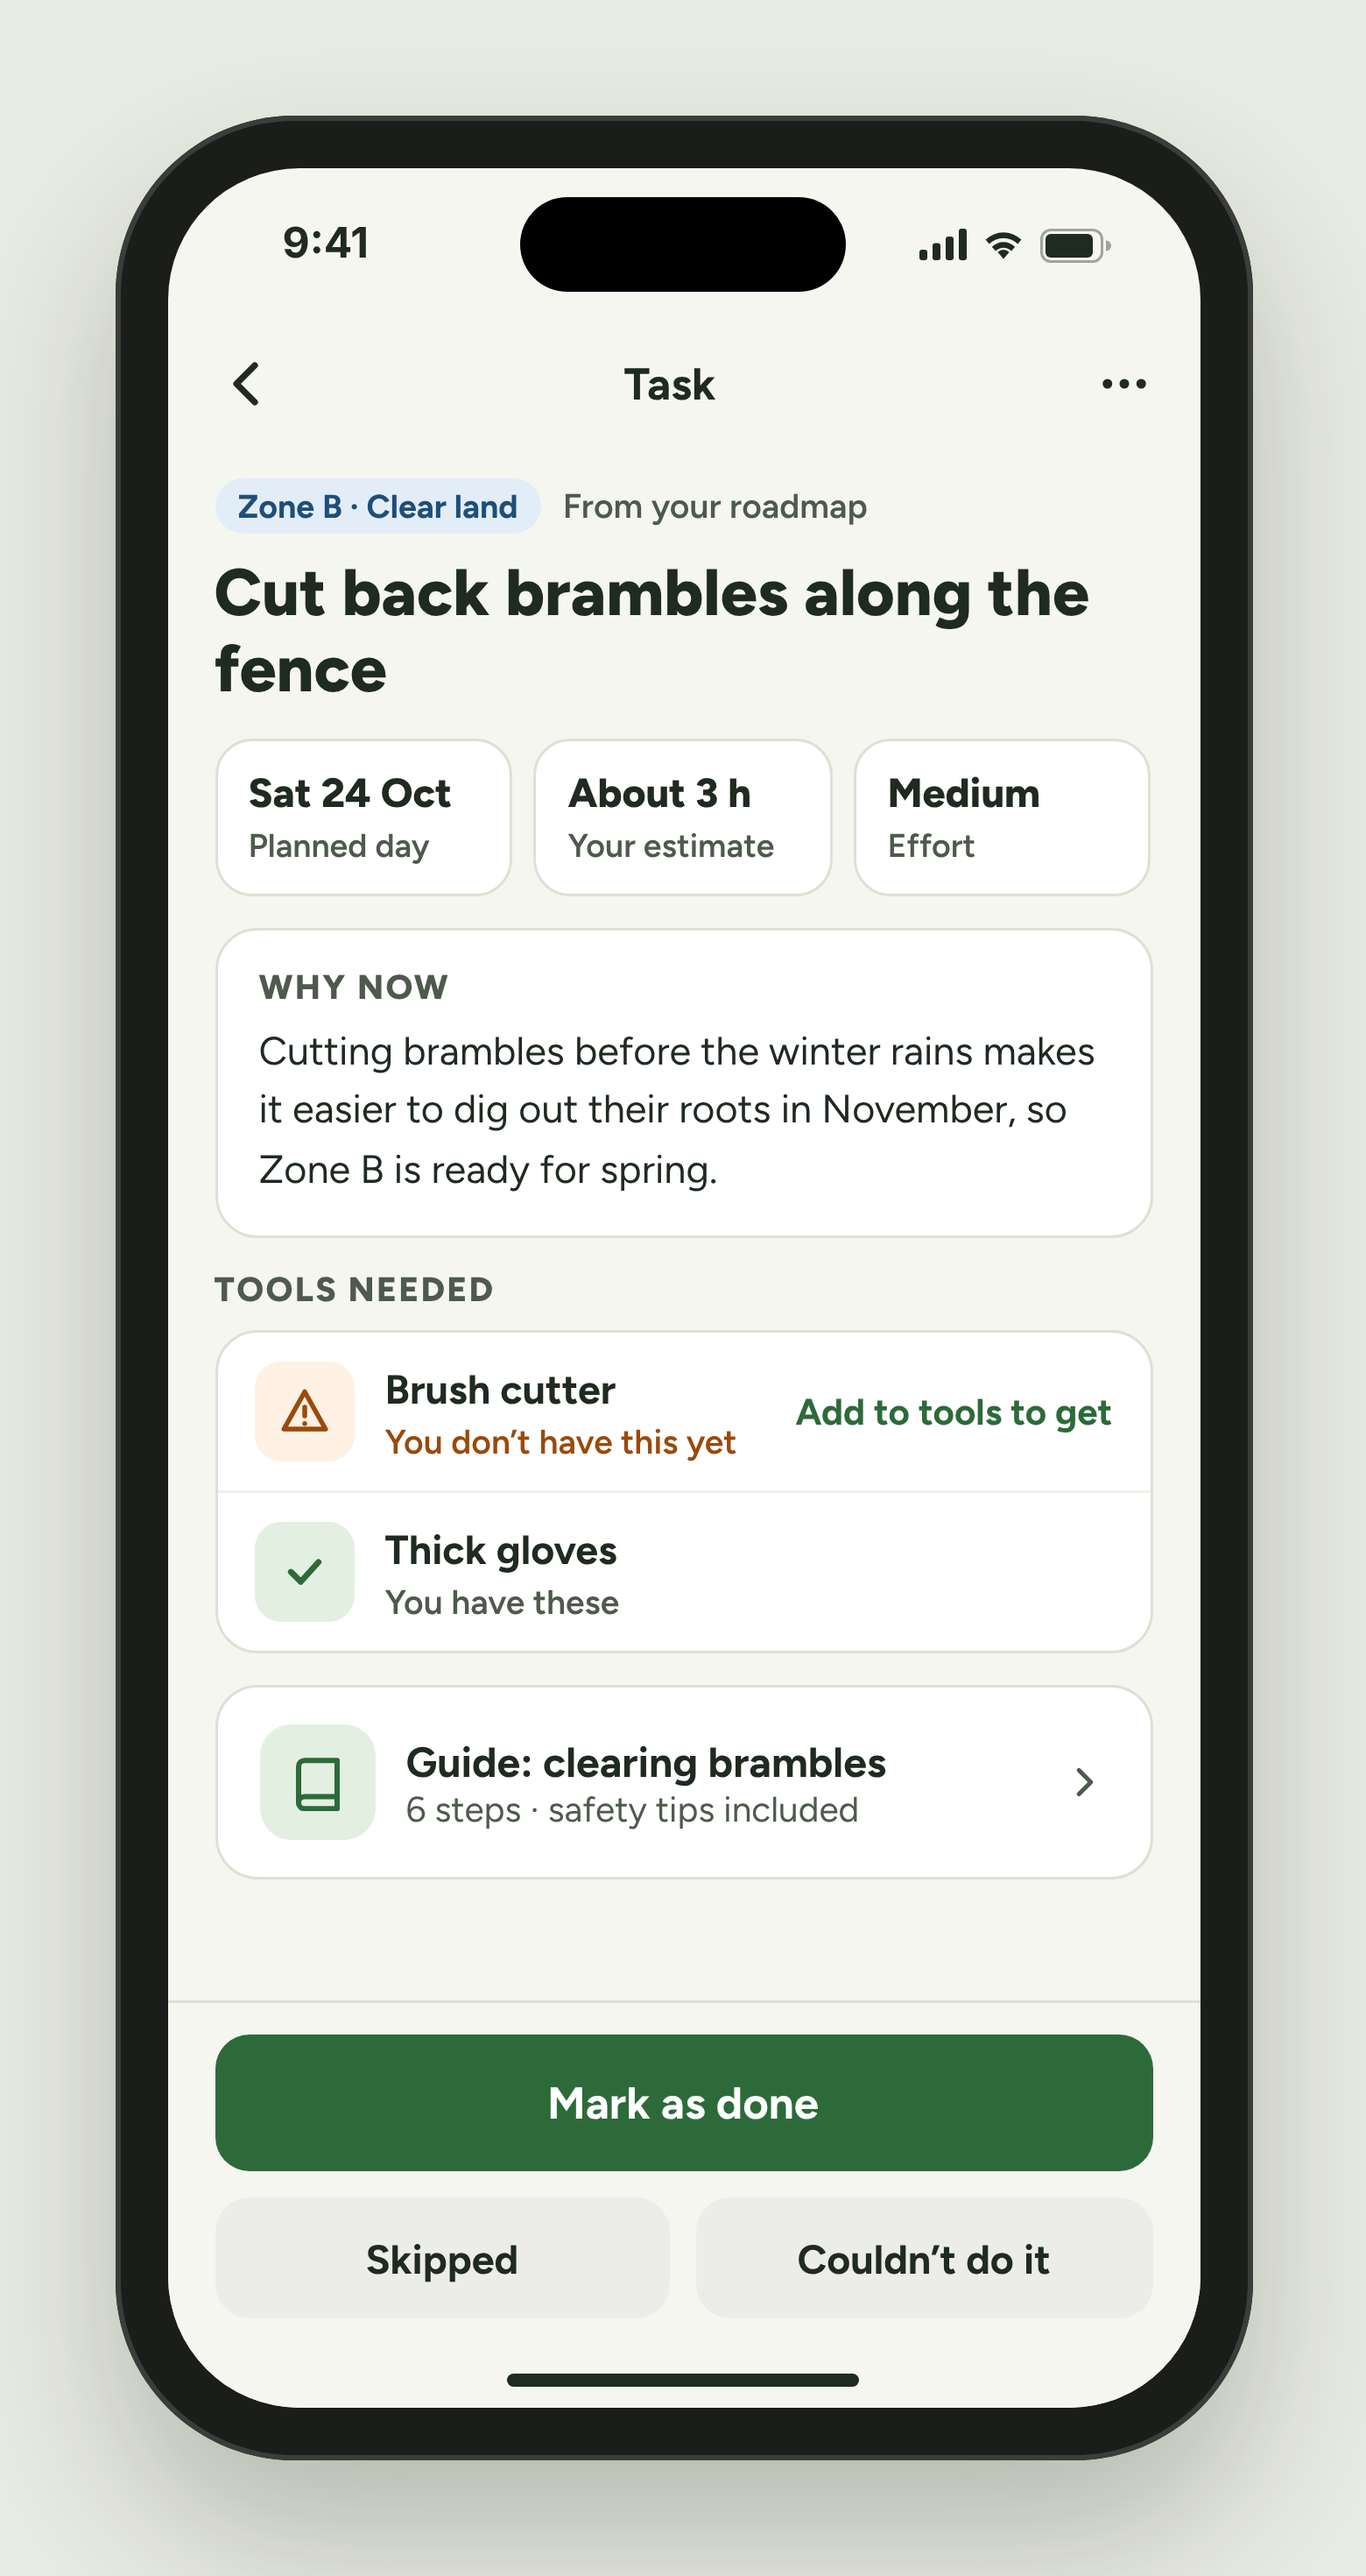
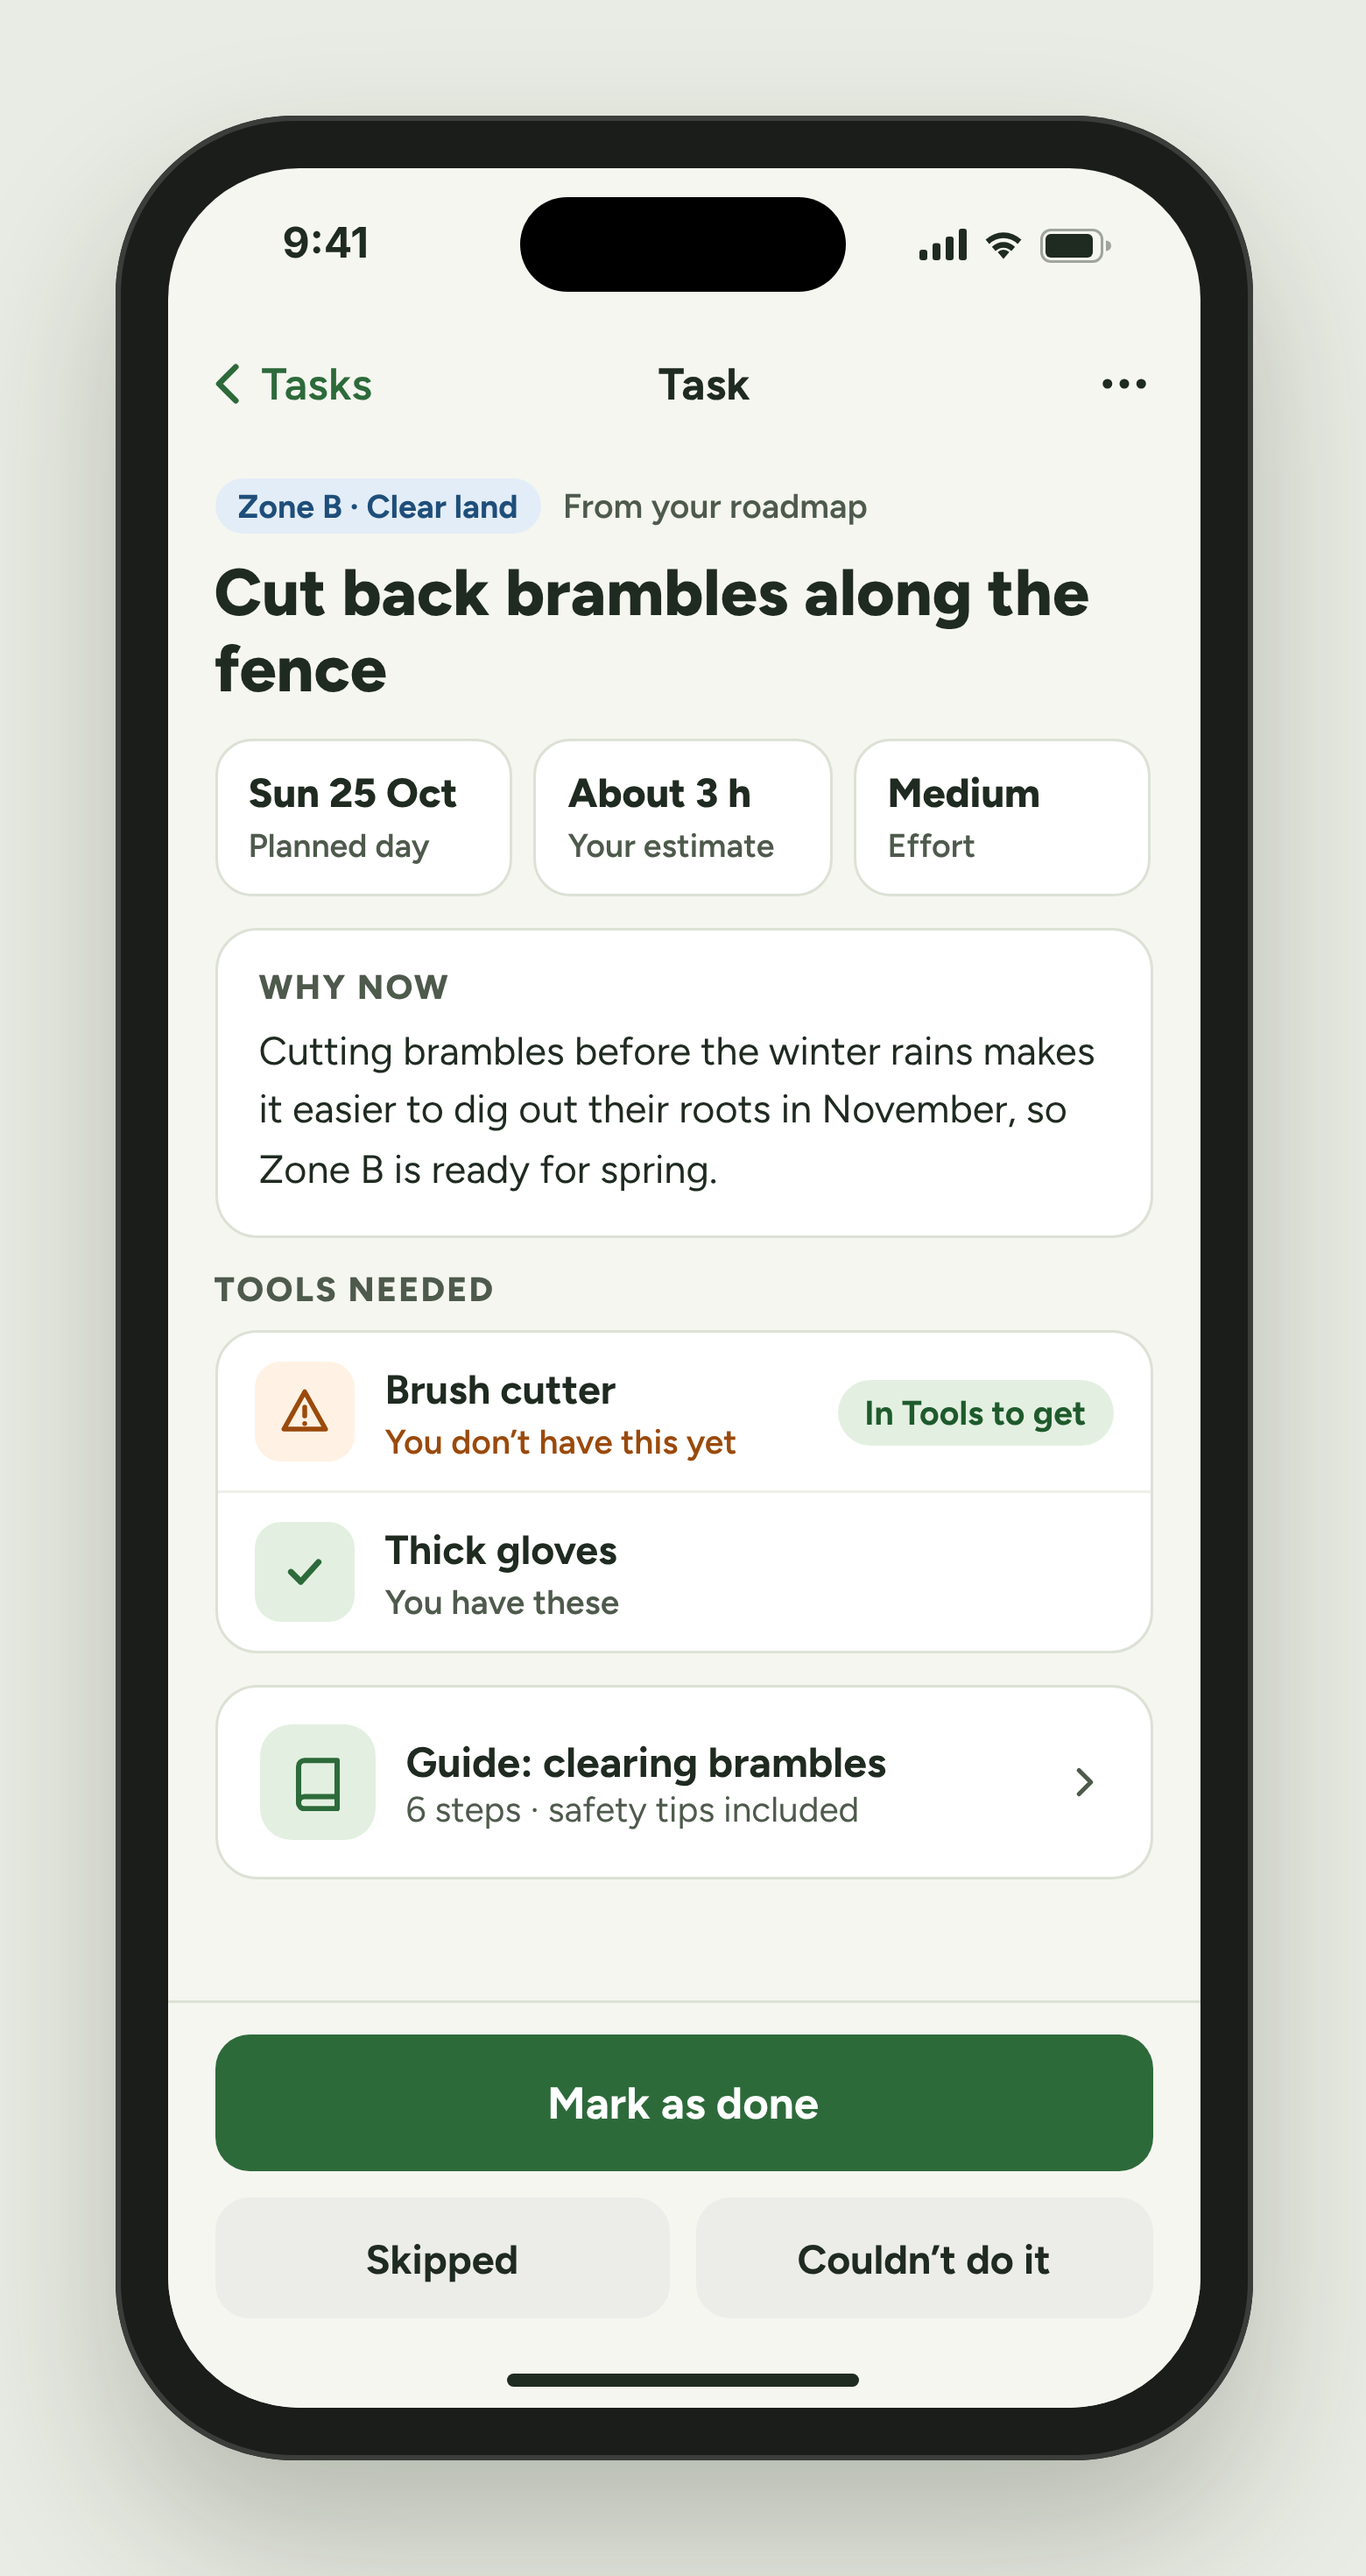
Design: B3 labelled back button, Sunday date, tool list status
Claude-Session: https://claude.ai/code/session_015NynAjU4naPZwzmeuGazot

diff --git a/design/source/B3-task-detail.html b/design/source/B3-task-detail.html
@@ -75,13 +75,13 @@
 
 
   <div class="content" style="gap: 12px; bottom: 150px">
-    <div class="nav"><div class="back"><svg width="24" height="24" viewBox="0 0 24 24" fill="none" stroke="#1F2A20" stroke-width="2.4" stroke-linecap="round" stroke-linejoin="round"><path d="M15 5l-7 7 7 7"/></svg></div><div class="ntitle">Task</div><div class="nright"><svg width="22" height="22" viewBox="0 0 24 24" fill="#1F2A20"><circle cx="5" cy="12" r="2"/><circle cx="12" cy="12" r="2"/><circle cx="19" cy="12" r="2"/></svg></div></div>
+    <div class="nav"><div class="back" style="width: auto; margin-left: -6px; gap: 2px; color: var(--green); font-size: 17px; font-weight: 600"><svg width="22" height="22" viewBox="0 0 24 24" fill="none" stroke="#2D6A3A" stroke-width="2.4" stroke-linecap="round" stroke-linejoin="round"><path d="M15 5l-7 7 7 7"/></svg>Tasks</div><div class="ntitle">Task</div><div class="nright"><svg width="22" height="22" viewBox="0 0 24 24" fill="#1F2A20"><circle cx="5" cy="12" r="2"/><circle cx="12" cy="12" r="2"/><circle cx="19" cy="12" r="2"/></svg></div></div>
     <div style="display: flex; flex-direction: column; gap: 8px">
       <div class="row" style="gap: 8px"><span class="chip" style="background: var(--blue-soft); color: var(--blue-ink)">Zone B · Clear land</span><span class="meta">From your roadmap</span></div>
       <h1 style="font-size: 25px; line-height: 1.15">Cut back brambles along the fence</h1>
     </div>
     <div class="kv">
-      <div><b>Sat 24 Oct</b><span>Planned day</span></div>
+      <div><b>Sun 25 Oct</b><span>Planned day</span></div>
       <div><b>About 3 h</b><span>Your estimate</span></div>
       <div><b>Medium</b><span>Effort</span></div>
     </div>
@@ -92,7 +92,7 @@
     <div style="display: flex; flex-direction: column; gap: 8px">
       <div class="label">Tools needed</div>
       <div class="list">
-        <div class="item" style="min-height: 52px"><div style="width: 38px; height: 38px; border-radius: 10px; background: #FFF1E3; display: flex; align-items: center; justify-content: center"><svg width="20" height="20" viewBox="0 0 24 24" fill="none" stroke="#9A4A0C" stroke-width="2.2" stroke-linecap="round" stroke-linejoin="round"><path d="M12 3l9.5 17h-19z"/><path d="M12 10v4M12 17.5v.01"/></svg></div><div class="it"><b>Brush cutter</b><span style="color: #9A4A0C">You don’t have this yet</span></div><span style="font-size: 14px; font-weight: 700; color: var(--green)">Add to tools to get</span></div>
+        <div class="item" style="min-height: 52px"><div style="width: 38px; height: 38px; border-radius: 10px; background: #FFF1E3; display: flex; align-items: center; justify-content: center"><svg width="20" height="20" viewBox="0 0 24 24" fill="none" stroke="#9A4A0C" stroke-width="2.2" stroke-linecap="round" stroke-linejoin="round"><path d="M12 3l9.5 17h-19z"/><path d="M12 10v4M12 17.5v.01"/></svg></div><div class="it"><b>Brush cutter</b><span style="color: #9A4A0C">You don’t have this yet</span></div><span style="font-size: 13px; font-weight: 700; color: var(--green-ink); background: var(--green-soft); padding: 5px 10px; border-radius: 999px; white-space: nowrap">In Tools to get</span></div>
         <div class="item" style="min-height: 52px"><div style="width: 38px; height: 38px; border-radius: 10px; background: var(--green-soft); display: flex; align-items: center; justify-content: center"><svg width="18" height="18" viewBox="0 0 24 24" fill="none" stroke="#2D6A3A" stroke-width="3" stroke-linecap="round" stroke-linejoin="round"><path d="M5 12l5 5 9-10"/></svg></div><div class="it"><b>Thick gloves</b><span>You have these</span></div></div>
       </div>
     </div>
